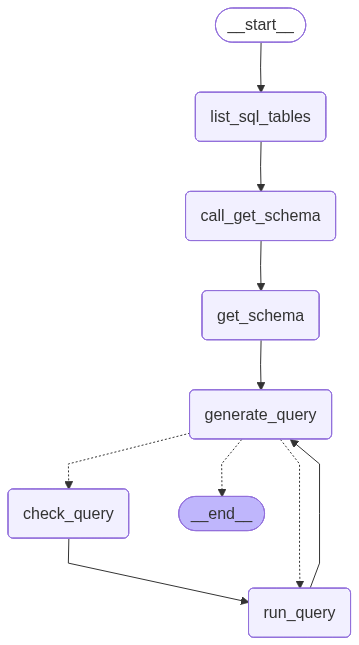
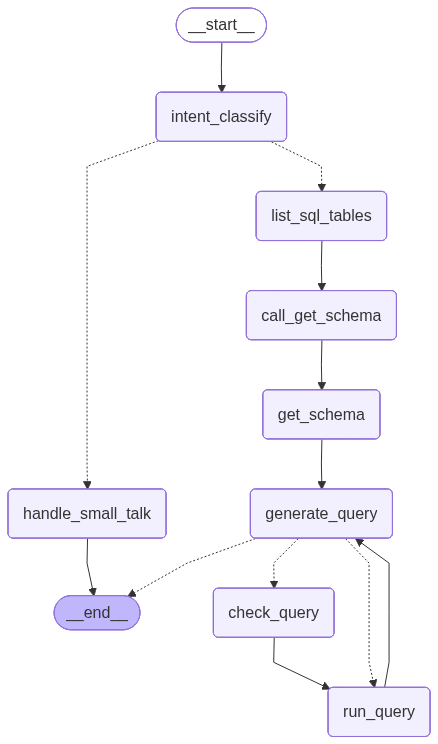
Added an Ollama Chat Model to handle small talks.

diff --git a/agent/agent_handler.py b/agent/agent_handler.py
@@ -1,20 +1,16 @@
 from enum import Enum
 from langchain_core.messages import AIMessage
-from typing import List
+from typing import List, Literal
 from langgraph.graph import END, START, MessagesState, StateGraph
 from langgraph.prebuilt import ToolNode
+from agent.data_assistant_handler import respond, validate_intent
 
 from uuid import uuid4
 from langchain_community.agent_toolkits import SQLDatabaseToolkit
 from langchain_openai import ChatOpenAI
-from utils.app_utils import get_chinook_db_and_dialect
+from utils.misc_utils import get_chinook_db_and_dialect
+from utils.misc_utils import get_last_user_message
 from agent.prompts import GENERATE_SQL_QUERY_PROMPT, CHECK_SQL_QUERY_PROMPT
-from dotenv import load_dotenv
-load_dotenv()
-
-class ShouldContinue(str, Enum):
-    END = END
-    CHECK_QUERY = "check_query"
 
 llm = ChatOpenAI(
     model="gpt-4o"
@@ -106,8 +102,39 @@ def get_schema_and_query_tool_nodes() -> List[ToolNode]:
     run_query_node = ToolNode([run_query_tool], name="run_query")
     return [get_schema_node, run_query_node]
 
-# def small_talk_condition():
+def intent_classify(state: MessagesState):
+    user_message = get_last_user_message(state["messages"])
+    raw_intent = respond(user_message, do_intent=True)
+    intent_validation = validate_intent(raw_intent)
 
+    intent_message = AIMessage(content=f'Intent classified as {intent_validation}')
+    return {"messages" : [intent_message]}
+
+def handle_small_talk(state: MessagesState):
+    user_message = get_last_user_message(state["messages"])
+    intent = "small_talk"
+    
+    # find intent
+    for msg in reversed(state["messages"]):
+        if hasattr(msg, 'content')and msg.content.startswith("Intent classified as:"):
+            intent = msg.content.split(": ")[1]
+            break
+    
+    response_content = respond(user_message, current_intent=intent or "small_talk", do_intent=False)
+    response = AIMessage(content=response_content)
+    
+    return {"messages": [response]}
+
+# conditional for route talks vs sql agent
+def route_after_intent(state: MessagesState) -> Literal["list_sql_tables", "handle_small_talk"]:
+    last_message = state["messages"][-1]
+
+    if "sql_query" in last_message.content:
+        return "list_sql_tables"
+    elif "small_talk" in last_message.content:
+        return "handle_small_talk"
+    else:
+        return "handle_small_talk"
 
 # conditional in graph
 def should_continue(state:MessagesState) -> str | None:
@@ -124,6 +151,10 @@ def build_agent():
     tool_nodes = get_schema_and_query_tool_nodes()
     builder = StateGraph(MessagesState)
 
+    # add nodes for intent and small talk
+    builder.add_node(intent_classify)
+    builder.add_node(handle_small_talk)
+
     # add nodes
     builder.add_node(list_sql_tables)
     builder.add_node(call_get_schema)
@@ -133,7 +164,16 @@ def build_agent():
     builder.add_node(tool_nodes[1], "run_query")
 
     # add edges
-    builder.add_edge(START, "list_sql_tables")
+    builder.add_edge(START, "intent_classify")
+
+    builder.add_conditional_edges(
+        "intent_classify",
+        route_after_intent,
+    )
+
+    # end small talk
+    builder.add_edge("handle_small_talk", END)
+
     builder.add_edge("list_sql_tables", "call_get_schema")
     builder.add_edge("call_get_schema", "get_schema")
     builder.add_edge("get_schema", "generate_query")

diff --git a/utils/app_utils.py b/utils/app_utils.py
@@ -1,10 +1,9 @@
-from langchain_community.utilities import SQLDatabase
-from sqlalchemy import inspect, create_engine
+from sqlalchemy import create_engine
 import pandas as pd
-import re, time, random, math, os
+import time, os
 import tempfile
 import streamlit as st
-from utils.utils import get_dataframe, get_timestamp
+from utils.misc_utils import get_dataframe, get_timestamp
 import plotly.express as px
 
 # --- Utility Functions ---
@@ -17,22 +16,11 @@ def clear_cache():
     st.cache_resource.clear()
     st.session_state.clear()
 
-def get_chinook_db_and_dialect(db_path: str = "Chinook.db"):
-    db = SQLDatabase.from_uri(f"sqlite:///{db_path}")
-    return db, db.dialect
 
 def save_dataframe_to_sqlite(df, table_name, db_path):
     """Save DataFrame to SQLite."""
     engine = create_engine(f"sqlite:///{db_path}")
     df.to_sql(table_name, engine, if_exists='replace', index=False)
-
-def get_table_schema_sqlalchemy(db_path, table_name):
-    """Get table schema using SQLAlchemy Inspector."""
-    engine = create_engine(f"sqlite:///{db_path}")
-    inspector = inspect(engine)
-    columns = inspector.get_columns(table_name)
-    schema = "\n".join([f"{col['name']} ({col['type']})" for col in columns])
-    return schema
 
 def handle_dataset_upload(uploaded_dataset):
     if uploaded_dataset is not None and not st.session_state.dataset_uploaded:
@@ -45,26 +33,7 @@ def handle_dataset_upload(uploaded_dataset):
             os.makedirs(os.path.dirname(db_path), exist_ok=True)
 
             save_dataframe_to_sqlite(dataset, table_name, db_path)
-            schema = get_table_schema_sqlalchemy(db_path, table_name)
-
-            data_summary = st.session_state.chat_handler.data_summarizer(
-                dataset=dataset,
-                schema=schema
-            )
-
-            preview_dataset = dataset.copy().sample(math.floor(random.uniform(2, 3)))
-
-            recommended_queries = st.session_state.chat_handler.get_recommended_queries(
-                dataset=dataset,
-                schema=schema
-            )
-
-        assistant_response = [data_summary, preview_dataset, recommended_queries]
-        st.session_state.dataset_uploaded = True
-        st.session_state.chat_history.append({"sender_type": "assistant", "message_type": "list", "content": assistant_response})
-        st.session_state.query_results.append({"sender_type": "assistant", "message_type": "text", "content": data_summary})
-        st.session_state.query_results.append({"sender_type": "assistant", "message_type": "text", "content": recommended_queries})
-
+            
 def auto_generate_chart(df: pd.DataFrame):
     """Auto-generate a bar chart based on DataFrame structure."""
     try:

diff --git a/agent/prompts.py b/agent/prompts.py
@@ -1,3 +1,26 @@
+SQL_SYSTEM_PROMPT = """
+You are an agent designed to interact with a SQL database.
+Given an input question, create a syntactically correct {dialect} query to run,
+then look at the results of the query and return the answer. Unless the user
+specifies a specific number of examples they wish to obtain, always limit your
+query to at most {top_k} results.
+
+You can order the results by a relevant column to return the most interesting
+examples in the database. Never query for all the columns from a specific table,
+only ask for the relevant columns given the question.
+
+You MUST double check your query before executing it. If you get an error while
+executing a query, rewrite the query and try again.
+
+DO NOT make any DML statements (INSERT, UPDATE, DELETE, DROP etc.) to the
+database.
+
+To start you should ALWAYS look at the tables in the database to see what you
+can query. Do NOT skip this step.
+
+Then you should query the schema of the most relevant tables.
+"""
+
 GENERATE_SQL_QUERY_PROMPT = """
 You are an agent designed to interact with a SQL database.
 Given an input question, create a syntactically correct {dialect} query to run,
@@ -31,11 +54,20 @@ just reproduce the original query.
 You will call the appropriate tool to execute the query after running this check.
 """
 
+INTENT_CLASSIFIER_PROMPT="""
+You are an intent classifier. 
+Decide if the user's message is asking for a SQL query, is general small talk, or needs clarification. 
+Respond with only one label from this list:
+- sql_query → if the user is asking about data, tables, schema, or anything that requires an SQL query. 
+- small_talk → if the user is greeting, thanking, or asking about your abilities. 
+- clarification_needed → if the request is ambiguous and lacks enough detail to generate SQL safely.
+"""
+
 SMALL_TALK_PROMPT="""
 You are a helpful Data Assistant. 
-- Stay strictly in the role of helping users analyze and query datasets. 
-- You can answer light questions about your capabilities (e.g., "What can you do?", "How do you work?"). 
+- Stay strictly in the role of helping users analyze and query datasets.
+- You can answer light questions about your capabilities (e.g., "What can you do?", "How do you work?") based on if {intent} is small_talk.
 - You can engage politely in small talk (e.g., greetings, thanks, encouragement), but keep responses short and professional. 
 - If the user asks something unrelated to data or analysis (e.g., news, sports, jokes), politely decline. 
-- Do not generate SQL queries in this mode.
+- if {intent} is clarification_needed, ask the user to clarify further.
 """

diff --git a/agent/data_assistant_handler.py b/agent/data_assistant_handler.py
@@ -1,0 +1,48 @@
+from langchain_ollama import ChatOllama
+from agent.prompts import SMALL_TALK_PROMPT, INTENT_CLASSIFIER_PROMPT
+from utils.misc_utils import load_config
+
+config = load_config()
+
+assistant = ChatOllama(model=config["ollama_model"], num_predict=256, temperature=0.5)
+
+def respond(user_input: str, current_intent: str = "small_talk", do_intent:bool = False) -> str:
+    """
+    Handle user interactions using Ollama local models
+    
+    Args:
+        user_input: str = User's message
+        current_intent: str = Current classified intent for context
+        do_intent: bool = Whether to do intent classification or respond in small talk
+
+    Returns:
+        Intent classification or small talk / clarification response
+    """
+    try:
+        messages = [{
+            "role" : "system",
+            "content" : INTENT_CLASSIFIER_PROMPT if do_intent else SMALL_TALK_PROMPT.format(intent=current_intent)
+        },
+        {
+            "role" : "user",
+            "content" : user_input
+        }]
+        
+        response = assistant.invoke(messages)
+        return response.content.strip()
+    except Exception as e:
+        # if intent fails fall to sql
+        if do_intent:
+            return "sql_query"
+        else:
+            return "I'm here to help with your data related queries. Could you please rephrase that?"
+
+def validate_intent(resp: str) -> str:
+    """Validate LLM intent response for expected values"""
+
+    valid_intents = ["sql_query", "small_talk", "clarification_needed"]
+    for intent in valid_intents:
+        if intent in resp.lower().strip():
+            return intent
+    
+    return "small_talk"

diff --git a/utils/misc_utils.py b/utils/misc_utils.py
@@ -1,23 +1,33 @@
-import os, yaml
-import requests
+import yaml
 import streamlit as st
 import pandas as pd
+from typing import List
 from dotenv import load_dotenv
+from langchain_community.utilities import SQLDatabase
 load_dotenv()
 
 def load_config():
     with open("config.yaml", "r") as f:
         return yaml.safe_load(f)
 
-def list_openai_models():
-    openai_api_key = os.getenv("OPENAI_API_KEY")
-    response = requests.get("https://api.openai.com/v1/models", headers={"Authorization": f"Bearer {openai_api_key}"}).json()
-    if response.get("error", False):
-        st.warning("Openai Error: " + response["error"]["message"])
-        return []
-    else:
-        return [item["id"] for item in response["data"]]
-    
+
+def get_last_user_message(messages: List) -> str:
+    for msg in reversed(messages):
+        # Langchain format
+        if hasattr(msg, 'type') and msg.type == 'human':
+            return msg.content
+        elif isinstance(msg, dict) and msg.get('role') == 'user':
+            return msg.get('content', '')
+        elif hasattr(msg, 'role') and getattr(msg, 'role') == 'user':
+            return msg.get('content', '')
+        
+    # fallback
+    return "Hello"
+
+def get_chinook_db_and_dialect(db_path: str = "Chinook.db"):
+    db = SQLDatabase.from_uri(f"sqlite:///{db_path}")
+    return db, db.dialect
+
 def get_avatar(sender_type):
     if sender_type == "user":
         return "assets/chat_icons/user_image.png"

diff --git a/sql_agent_prebuilt/nl2sqlagent_chinook_prebuilt.py b/sql_agent_prebuilt/nl2sqlagent_chinook_prebuilt.py
@@ -1,8 +1,8 @@
 from langchain_community.agent_toolkits import SQLDatabaseToolkit
 from langchain_openai import ChatOpenAI
 from langgraph.prebuilt import create_react_agent
-from utils.app_utils import get_chinook_db_and_dialect
-from prompts import SQL_SYSTEM_PROMPT
+from utils.misc_utils import get_chinook_db_and_dialect
+from agent.prompts import SQL_SYSTEM_PROMPT
 
 llm = ChatOpenAI(
     model="gpt-4o"
